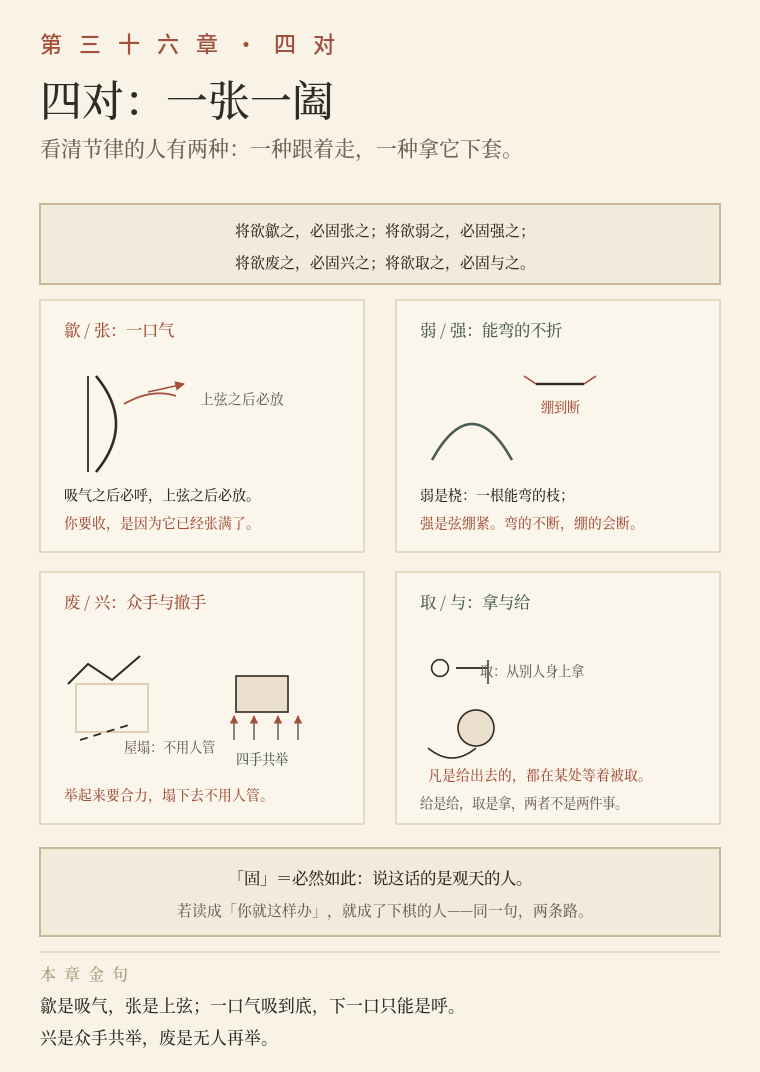
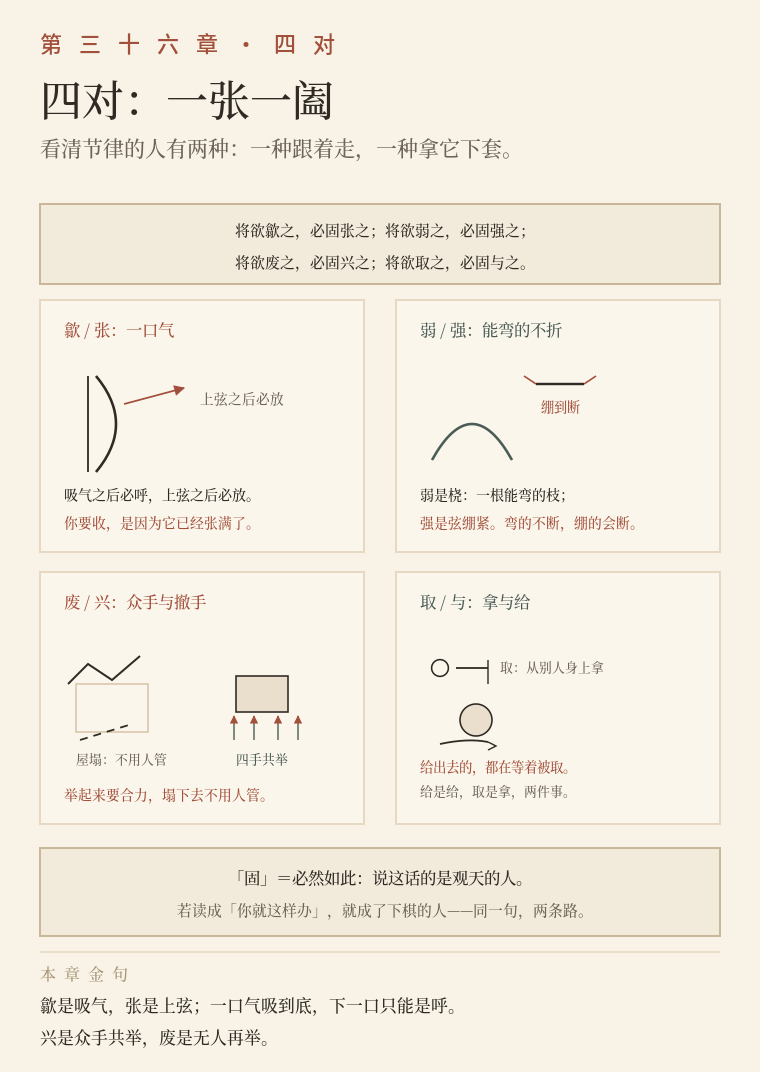
2.8.1 三十六章两图修压字：重复箭头、屋塌标注、取与标注、渊卡增高、利器卡分离

Changed region(s): [[0.5447, 0.6157, 0.8474, 0.7696], [0.1513, 0.6772, 0.2724, 0.708], [0.1816, 0.3386, 0.2421, 0.3694]]

diff --git a/tools/make_yili_svg.py b/tools/make_yili_svg.py
@@ -1088,7 +1088,7 @@ def ch03_shang_ji_guo_du():
 
 
 def ch10_bao_yi():
-    W, H = 380, 572
+    W, H = 380, 592
     body, y = head(W, H, "六问一答：对内做主人，对外做租客", "第 十 章 · 勘 验", "载营魄抱一",
                    "六问各管一件，底子只有一句质问：你是不是在当主人？", H)
     s = [body]
@@ -2547,8 +2547,7 @@ def ch36a_si_dui_jie_lv():
     s.append(txt(32, c1 + 18, "歙 / 张：一口气", 8.2, SEAL))
     s.append(f'<path d="M48,{c1+38} Q68,{c1+62} 48,{c1+86}" fill="none" stroke="{INK}" stroke-width="1.3"/>')
     s.append(f'<line x1="44" y1="{c1+38}" x2="44" y2="{c1+86}" stroke="{INK}" stroke-width="0.9"/>')
-    s.append(f'<path d="M62,{c1+52} q14,-8 26,-4" fill="none" stroke="{SEAL}" stroke-width="0.9"/>')
-    s.append(arrow(74, c1 + 46, 92, c1 + 42, SEAL, 0.8, head="arrS"))
+    s.append(arrow(62, c1 + 52, 92, c1 + 44, SEAL, 0.9, head="arrS"))
     s.append(txt(100, c1 + 52, "上弦之后必放", 6.8, "#6E6459"))
     s.append(txt(32, c1 + 100, "吸气之后必呼，上弦之后必放。", 7.0, INK))
     s.append(txt(32, c1 + 114, "你要收，是因为它已经张满了。", 6.9, SEAL))
@@ -2567,11 +2566,11 @@ def ch36a_si_dui_jie_lv():
     s.append(f'<rect x="38" y="{c2+56}" width="36" height="24" fill="none" stroke="{LINE}" stroke-width="0.9"/>')
     s.append(f'<path d="M34,{c2+56} l10,-10 l12,8 l14,-12" fill="none" stroke="{INK}" stroke-width="1"/>')
     s.append(f'<path d="M40,{c2+84} l26,-8" stroke="{INK}" stroke-width="0.9" stroke-dasharray="4 3"/>')
-    s.append(txt(62, c2 + 90, "屋塌：不用人管", 6.6, "#6E6459"))
+    s.append(txt(38, c2 + 96, "屋塌：不用人管", 6.4, "#6E6459"))
     s.append(f'<rect x="118" y="{c2+52}" width="26" height="18" fill="#E9DFCC" stroke="{INK}" stroke-width="0.8"/>')
     for dx in (-14, -4, 8, 18):
         s.append(arrow(131 + dx, c2 + 84, 131 + dx, c2 + 72, GREEN, 0.7, head="arrS"))
-    s.append(txt(131, c2 + 96, "四手共举", 6.6, GREEN, "middle"))
+    s.append(txt(131, c2 + 96, "四手共举", 6.4, GREEN, "middle"))
     s.append(txt(32, c2 + 114, "举起来要合力，塌下去不用人管。", 6.9, SEAL))
 
     # 四 取/与：割耳与给饼
@@ -2579,11 +2578,12 @@ def ch36a_si_dui_jie_lv():
     s.append(f'<circle cx="220" cy="{c2+48}" r="4.2" fill="none" stroke="{INK}" stroke-width="0.8"/>')
     s.append(f'<path d="M228,{c2+48} l16,0" stroke="{INK}" stroke-width="0.9"/>')
     s.append(f'<path d="M244,{c2+44} l0,6 M244,{c2+50} l0,6" stroke="{INK}" stroke-width="0.7"/>')
-    s.append(txt(240, c2 + 52, "取：从别人身上拿", 6.6, "#6E6459"))
-    s.append(f'<circle cx="238" cy="{c2+78}" r="9" fill="#E9DFCC" stroke="{INK}" stroke-width="0.8"/>')
-    s.append(f'<path d="M214,{c2+88} q12,10 24,0" fill="none" stroke="{INK}" stroke-width="0.8"/>')
-    s.append(txt(214, c2 + 104, "凡是给出去的，都在某处等着被取。", 6.9, SEAL))
-    s.append(txt(210, c2 + 118, "给是给，取是拿，两者不是两件事。", 6.7, "#6E6459"))
+    s.append(txt(250, c2 + 50, "取：从别人身上拿", 6.4, "#6E6459"))
+    s.append(f'<circle cx="238" cy="{c2+74}" r="8" fill="#E9DFCC" stroke="{INK}" stroke-width="0.8"/>')
+    s.append(f'<path d="M220,{c2+86} q14,-3 24,-1" fill="none" stroke="{INK}" stroke-width="0.9"/>')
+    s.append(f'<path d="M244,{c2+85} l4,2 l-4,2" fill="none" stroke="{INK}" stroke-width="0.7"/>')
+    s.append(txt(210, c2 + 100, "给出去的，都在等着被取。", 6.7, SEAL))
+    s.append(txt(210, c2 + 112, "给是给，取是拿，两件事。", 6.4, "#6E6459"))
 
     # 固 与 收
     y3 = y + 324
@@ -2598,7 +2598,7 @@ def ch36a_si_dui_jie_lv():
 # ============ 第三十六章 · 微明与渊 ============
 def ch36b_wei_ming_yuan():
     import math
-    W, H = 380, 572
+    W, H = 380, 592
     body, y = head(W, H, "胜，本义是「任」：刚撑不住自己，柔撑得住", "第 三 十 六 章 · 微 明",
                    "微明 · 渊 · 利器", "看得见的人很多，看得见而不动声色的人很少。", H)
     s = [body]
@@ -2610,10 +2610,10 @@ def ch36b_wei_ming_yuan():
     a = y + 38
     s.append(box(20, a, 340, 118, fill="#FBF6EC", stroke="#E6D8C2"))
     s.append(txt(32, a + 18, "微明：拐点还没显出来", 8.2, INK))
-    s.append(f'<path d="M40,{a+72} Q66,{a+76} 90,{a+40} Q104,{a+22} 118,{a+38} Q134,{a+58} 162,{a+70}" fill="none" stroke="{INK}" stroke-width="1.2"/>')
+    s.append(f'<path d="M40,{a+64} Q64,{a+68} 88,{a+38} Q102,{a+22} 116,{a+36} Q132,{a+54} 160,{a+62}" fill="none" stroke="{INK}" stroke-width="1.2"/>')
     s.append(f'<circle cx="104" cy="{a+30}" r="2.4" fill="{SEAL}"/>')
-    s.append(f'<line x1="104" y1="{a+34}" x2="104" y2="{a+62}" stroke="{SEAL}" stroke-width="0.7" stroke-dasharray="3 2"/>')
-    s.append(txt(108, a + 84, "顶点之前，已经有信", 6.4, SEAL))
+    s.append(f'<line x1="102" y1="{a+32}" x2="102" y2="{a+54}" stroke="{SEAL}" stroke-width="0.7" stroke-dasharray="3 2"/>')
+    s.append(txt(104, a + 74, "顶点之前，已经有信", 6.2, SEAL))
     # 胜＝任：直梁断 / 弯梁承
     s.append(f'<line x1="200" y1="{a+50}" x2="270" y2="{a+50}" stroke="{INK}" stroke-width="1.3"/>')
     s.append(f'<path d="M232,{a+50} l-3,4 M236,{a+50} l3,-4" stroke="{SEAL}" stroke-width="1"/>')
@@ -2627,42 +2627,42 @@ def ch36b_wei_ming_yuan():
 
     # 二、渊与鱼
     b = a + 130
-    s.append(box(20, b, 340, 104, fill="#F7F1E3", stroke="#E6D8C2"))
-    s.append(txt(32, b + 18, "鱼不可脱于渊：渊是回水，看不见底", 8.2, INK))
+    s.append(box(20, b, 340, 120, fill="#F7F1E3", stroke="#E6D8C2"))
+    s.append(txt(32, b + 18, "渊：回水，看不见底", 8.2, INK))
     s.append(f'<circle cx="82" cy="{b+58}" r="32" fill="#DCE5DF" stroke="#B9C7BE" stroke-width="0.8"/>')
     for r in (24, 17, 10):
         s.append(f'<circle cx="82" cy="{b+58}" r="{r}" fill="none" stroke="#9FB0A6" stroke-width="0.5" stroke-dasharray="4 3"/>')
     s.append(f'<ellipse cx="82" cy="{b+58}" rx="9" ry="4" fill="#F7F1E3" stroke="{INK}" stroke-width="0.8"/>')
     s.append(f'<path d="M91,{b+58} l7,-4 l0,8 z" fill="#F7F1E3" stroke="{INK}" stroke-width="0.7"/>')
-    s.append(txt(82, b + 98, "在渊：有地方转", 6.6, GREEN, "middle"))
-    s.append(f'<line x1="160" y1="{b+76}" x2="330" y2="{b+76}" stroke="{LINE}" stroke-width="0.9"/>')
-    s.append(f'<ellipse cx="212" cy="{b+70}" rx="10" ry="4.4" fill="#F7F1E3" stroke="{SEAL}" stroke-width="0.8"/>')
-    s.append(f'<path d="M222,{b+70} l8,-4 l0,8 z" fill="#F7F1E3" stroke="{SEAL}" stroke-width="0.7"/>')
-    s.append(f'<path d="M206,{b+64} l-4,-6 M212,{b+63} l0,-7 M218,{b+64} l4,-6" stroke="{SEAL}" stroke-width="0.7"/>')
-    s.append(txt(212, b + 92, "脱渊：鳃里进沙", 6.6, SEAL, "middle"))
-    s.append(txt(168, b + 22, "不是被捉走，是自己跳上岸。", 7.0, INK))
-    s.append(txt(168, b + 36, "鱼是「有」，渊是「无」：", 6.6, "#6E6459"))
-    s.append(txt(168, b + 48, "本事全长在那片「无」上。", 6.6, "#6E6459"))
+    s.append(txt(82, b + 104, "在渊：有地方转", 6.6, GREEN, "middle"))
+    s.append(f'<line x1="160" y1="{b+96}" x2="330" y2="{b+96}" stroke="{LINE}" stroke-width="0.9"/>')
+    s.append(f'<ellipse cx="212" cy="{b+88}" rx="10" ry="4.4" fill="#F7F1E3" stroke="{SEAL}" stroke-width="0.8"/>')
+    s.append(f'<path d="M222,{b+88} l8,-4 l0,8 z" fill="#F7F1E3" stroke="{SEAL}" stroke-width="0.7"/>')
+    s.append(f'<path d="M206,{b+82} l-4,-6 M212,{b+81} l0,-7 M218,{b+82} l4,-6" stroke="{SEAL}" stroke-width="0.7"/>')
+    s.append(txt(212, b + 112, "脱渊：鳃里进沙", 6.6, SEAL, "middle"))
+    s.append(txt(170, b + 40, "不是被捉走，是自己跳上岸。", 6.9, INK))
+    s.append(txt(170, b + 54, "鱼是「有」，渊是「无」；", 6.4, "#6E6459"))
+    s.append(txt(170, b + 66, "本事全长在那片「无」上。", 6.4, "#6E6459"))
 
     # 三、利器
-    c = b + 116
-    s.append(box(20, c, 340, 68, fill="#FBF6EC", stroke="#E6D8C2"))
+    c = b + 132
+    s.append(box(20, c, 340, 76, fill="#FBF6EC", stroke="#E6D8C2"))
     s.append(txt(32, c + 18, "利器：刀可以挂在墙上", 8.2, GREEN))
-    s.append(f'<line x1="40" y1="{c+34}" x2="128" y2="{c+34}" stroke="{LINE}" stroke-width="0.9"/>')
-    s.append(f'<path d="M74,{c+34} l0,4" stroke="{INK}" stroke-width="0.7"/>')
-    s.append(f'<path d="M72,{c+38} l8,0 l2,26 l-8,2 z" fill="#E9DFCC" stroke="{INK}" stroke-width="0.9"/>')
-    s.append(f'<line x1="72" y1="{c+44}" x2="82" y2="{c+43}" stroke="{INK}" stroke-width="0.6"/>')
-    s.append(txt(96, c + 52, "挂起来：看得见，但不随手", 6.6, "#6E6459"))
-    s.append(txt(210, c + 18, "不能挂在嘴上", 8.2, SEAL))
-    s.append(f'<path d="M222,{c+48} q14,8 28,0" fill="none" stroke="{INK}" stroke-width="1"/>')
-    s.append(f'<path d="M232,{c+40} l0,10 l-4,-4" stroke="{SEAL}" stroke-width="0.9"/>')
-    s.append(f'<line x1="248" y1="{c+46}" x2="266" y2="{c+32}" stroke="{SEAL}" stroke-width="0.9"/>')
-    s.append(f'<line x1="262" y1="{c+34}" x2="268" y2="{c+30}" stroke="{SEAL}" stroke-width="1.2"/>')
-    s.append(f'<circle cx="252" cy="{c+42}" r="14" fill="none" stroke="{SEAL}" stroke-width="0.9"/>')
-    s.append(f'<line x1="242" y1="{c+52}" x2="262" y2="{c+32}" stroke="{SEAL}" stroke-width="1"/>')
-    s.append(txt(276, c + 56, "说出来就成了刀", 6.6, "#6E6459"))
+    s.append(f'<line x1="40" y1="{c+34}" x2="140" y2="{c+34}" stroke="{LINE}" stroke-width="0.9"/>')
+    s.append(f'<path d="M76,{c+34} l0,6" stroke="{INK}" stroke-width="0.7"/>')
+    s.append(f'<rect x="75" y="{c+34}" width="6" height="8" fill="#E9DFCC" stroke="{INK}" stroke-width="0.7"/>')
+    s.append(f'<path d="M74,{c+42} l9,-1 l1,30 l-8,1 z" fill="#E9DFCC" stroke="{INK}" stroke-width="0.9"/>')
+    s.append(txt(96, c + 54, "挂起来：看得见，但不随手", 6.4, "#6E6459"))
+    s.append(txt(196, c + 18, "不能挂在嘴上", 8.2, SEAL))
+    s.append(f'<path d="M206,{c+52} q16,-9 32,0" fill="none" stroke="{INK}" stroke-width="0.9"/>')
+    s.append(f'<path d="M206,{c+52} q16,9 32,0" fill="none" stroke="{INK}" stroke-width="0.7"/>')
+    s.append(f'<line x1="222" y1="{c+26}" x2="222" y2="{c+44}" stroke="{INK}" stroke-width="1.1"/>')
+    s.append(f'<path d="M222,{c+44} l-4,-5 l8,0 z" fill="{SEAL}" stroke="{SEAL}" stroke-width="0.6"/>')
+    s.append(f'<circle cx="222" cy="{c+36}" r="13" fill="none" stroke="{SEAL}" stroke-width="0.9"/>')
+    s.append(f'<line x1="211" y1="{c+47}" x2="233" y2="{c+25}" stroke="{SEAL}" stroke-width="1"/>')
+    s.append(txt(246, c + 54, "说出来就成了刀", 6.4, "#6E6459"))
 
-    y3 = c + 78
+    y3 = c + 88
     s.append(box(20, y3, 340, 40, fill="#F2EADA", stroke="#C9B79A"))
     s.append(txt(190, y3 + 17, "藏刀不是为了让你不知道有刀，是为了让你不必怕刀。", 8.0, INK, "middle"))
     s.append(txt(190, y3 + 32, "这一问，就把本章和权术分开了。", 7.6, "#6E6459", "middle"))
